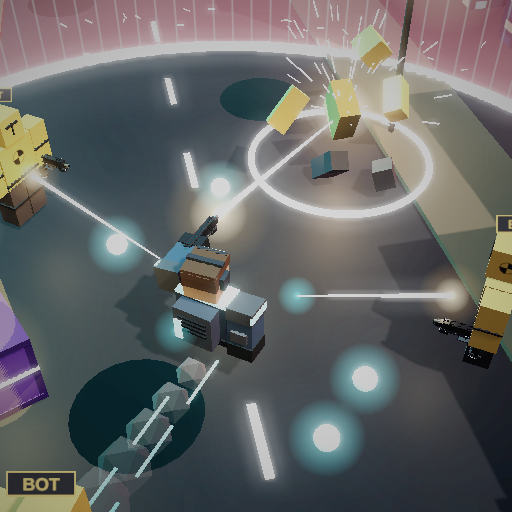
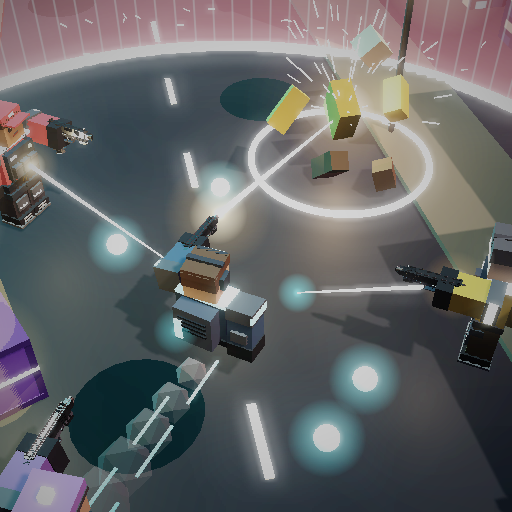
Store art: show other players instead of bots
Claude-Session: https://claude.ai/code/session_01EW7UVPxxQdamETQbLyci97

diff --git a/art/store/preview.html b/art/store/preview.html
@@ -1055,10 +1055,18 @@ body.shot #shot{display:block;width:100vw;height:100vh}
     box(head, 0.36, 0.07, 0.04, mat(0x6b2a22), 0.02, -0.28, front, 0, 0, 0.06);
   }
   // Hero: the default player look (navy tactical jacket, cyan headset, pads, backpack with vents).
-  function makeHero(pose) {
-    const root = new THREE.Group();
-    const jacket = mat(0x22344f), pants = mat(0x1d2738), rig = mat(0x141a23, { roughness: 0.85 }), skin = mat(0xd9a47c);
-    const boot = mat(0x101216, { roughness: 0.9 }), pad = mat(0x2c323c), cyanG = glow(P.cyan, 2.6), brass = mat(0xc9a24a, { metalness: 0.8, roughness: 0.3 });
+  // Other players: same body, their own outfits (no BOT tags; carter wants real players on the store art).
+  const RIVALS = [
+    { jacket: 0xb8323c, pants: 0x1a1a1f, skin: 0x8d5a3b, accent: P.coral, head: "cap", hat: 0xd8323c, pack: 0x5a1a20 },
+    { jacket: 0xc99a2e, pants: 0x3a2a1c, skin: 0xe8c09a, accent: P.gold, head: "helmet", hat: 0x2a2d33, pack: 0x5a4518 },
+    { jacket: 0x5a3aa0, pants: 0x3c3f48, skin: 0xc68a62, accent: 0xb26bff, head: "beanie", hat: 0x8a5cd8, pack: 0x2e1e55 },
+    { jacket: 0x55703f, pants: 0xa08a64, skin: 0x6b4430, accent: 0x9be15d, head: "cap", hat: 0x2e3a24, pack: 0x2e3a24 },
+  ];
+  function makeRival(i, pose) { return makeHero(pose || "aim", RIVALS[i % RIVALS.length]); }
+  function makeHero(pose, look) {
+    const root = new THREE.Group(), L = look || {};
+    const jacket = mat(L.jacket || 0x22344f), pants = mat(L.pants || 0x1d2738), rig = mat(0x141a23, { roughness: 0.85 }), skin = mat(L.skin || 0xd9a47c);
+    const boot = mat(0x101216, { roughness: 0.9 }), pad = mat(0x2c323c), cyanG = glow(L.accent || P.cyan, 2.6), brass = mat(0xc9a24a, { metalness: 0.8, roughness: 0.3 });
     // legs
     [-0.5, 0.5].forEach((x) => {
       const leg = new THREE.Group(); leg.position.set(x, 2, 0); root.add(leg);
@@ -1078,19 +1086,27 @@ body.shot #shot{display:block;width:100vw;height:100vh}
     box(torso, 2.02, 0.12, 1.02, cyanG, 0, 0.94, 0); // collar strip
     box(torso, 0.18, 2.0, 0.08, rig, -0.62, 0, 0.5); box(torso, 0.18, 2.0, 0.08, rig, 0.62, 0, 0.5);
     // backpack with vents and a power cell
-    box(torso, 1.5, 1.6, 0.6, mat(0x2a3446), 0, 0, -0.8);
+    box(torso, 1.5, 1.6, 0.6, mat(L.pack || 0x2a3446), 0, 0, -0.8);
     for (let i = 0; i < 4; i++) box(torso, 1.1, 0.08, 0.05, mat(0x0b0e13), 0, 0.45 - i * 0.2, -1.12);
     box(torso, 0.3, 0.9, 0.3, cyanG, 0.55, -0.15, -1.05);
-    halo(torso, P.cyan, 1.6, 0.55, -0.15, -1.3, 0.5);
+    halo(torso, L.accent || P.cyan, 1.6, 0.55, -0.15, -1.3, 0.5);
     // head
     const head = new THREE.Group(); head.position.y = 4.65; root.add(head);
     box(head, 1.2, 1.2, 1.2, skin, 0, 0, 0);
     face(head, 0.61);
+    if (!L.head) {
     box(head, 1.26, 0.38, 1.26, mat(0x3b2a20), 0, 0.5, -0.02); box(head, 1.26, 0.6, 0.3, mat(0x3b2a20), 0, 0.25, -0.5);
     box(head, 1.32, 0.12, 0.2, mat(0x1b2028), 0, 0.72, 0); // headset band
     [-0.68, 0.68].forEach((x) => { box(head, 0.18, 0.5, 0.5, mat(0x1b2028), x, 0.02, 0); box(head, 0.05, 0.2, 0.2, cyanG, x * 1.08, 0.02, 0); });
     box(head, 0.06, 0.06, 0.6, mat(0x1b2028), 0.66, -0.25, 0.35, 0.4); box(head, 0.12, 0.12, 0.12, mat(0x1b2028), 0.6, -0.4, 0.62);
     box(head, 1.1, 0.3, 0.14, mat(0x1b2028), 0, 0.52, 0.6); box(head, 0.42, 0.22, 0.1, cyanG, -0.25, 0.52, 0.68); box(head, 0.42, 0.22, 0.1, cyanG, 0.25, 0.52, 0.68);
+    } else {
+      const hat = mat(L.hat), ac = glow(L.accent, 2.4);
+      box(head, 1.26, 0.3, 1.26, mat(0x24180f), 0, 0.42, -0.04); box(head, 1.26, 0.5, 0.25, mat(0x24180f), 0, 0.2, -0.52);
+      if (L.head === "cap") { box(head, 1.3, 0.36, 1.3, hat, 0, 0.62, 0); box(head, 1.1, 0.08, 0.6, hat, 0, 0.46, 0.85); box(head, 0.3, 0.12, 0.05, ac, 0, 0.66, 0.66); }
+      else if (L.head === "helmet") { box(head, 1.4, 0.62, 1.4, hat, 0, 0.5, -0.02); box(head, 1.16, 0.26, 0.08, ac, 0, 0.12, 0.66); box(head, 0.2, 0.5, 1.42, mat(0x1a1c20), 0, 0.55, -0.02); }
+      else { box(head, 1.32, 0.48, 1.32, hat, 0, 0.56, 0); box(head, 1.36, 0.16, 1.36, mat(0x2a2a30), 0, 0.36, 0); box(head, 0.3, 0.3, 0.3, ac, 0, 0.9, 0); }
+    }
     // arms (shoulder pivots)
     const arms = [];
     [-1, 1].forEach((s) => {
@@ -1331,10 +1347,10 @@ body.shot #shot{display:block;width:100vw;height:100vh}
       s.castShadow = false;
     }
   }
-  function burst(scene, c, k) {
-    // a Crash Dummy blown into parts, with a shockwave ring and sparks
-    const y = mat(P.gold, { roughness: 0.45 }), dk = mat(0x2a2a2e);
-    [[1.2, 1.2, 1.2, y, 0.8, 2.6, -0.4], [2, 2, 1, y, -0.2, 0.4, 0.3], [0.95, 2, 0.95, y, -1.9, 0.9, 0.5], [0.95, 2, 0.95, y, 1.9, -0.2, -0.6], [0.95, 2, 0.95, dk, -0.6, -1.9, 0.8], [0.95, 2, 0.95, dk, 0.9, -2.1, 1.5]].forEach((p) => {
+  function burst(scene, c, k, look) {
+    // a knocked-out player blown into blocks, with a shockwave ring and sparks
+    const y = mat(look.jacket), dk = mat(look.pants);
+    [[1.2, 1.2, 1.2, mat(look.skin), 0.8, 2.6, -0.4], [2, 2, 1, y, -0.2, 0.4, 0.3], [0.95, 2, 0.95, y, -1.9, 0.9, 0.5], [0.95, 2, 0.95, y, 1.9, -0.2, -0.6], [0.95, 2, 0.95, dk, -0.6, -1.9, 0.8], [0.95, 2, 0.95, dk, 0.9, -2.1, 1.5]].forEach((p) => {
       box(scene, p[0], p[1], p[2], p[3], c.x + p[4] * 1.6 * k, Math.max(0.8, c.y + p[5] * 1.1 * k), c.z + p[6] * 1.6 * k, rand() * 3, rand() * 3, rand() * 3);
     });
     halo(scene, 0xffffff, 3 * k, c.x, c.y, c.z, 0.9); halo(scene, P.gold, 6 * k, c.x, c.y, c.z, 0.4); halo(scene, P.coral, 10 * k, c.x, c.y, c.z, 0.15);
@@ -1372,9 +1388,9 @@ body.shot #shot{display:block;width:100vw;height:100vh}
   const IDEAS = {
     C1: {
       name: "Showdown", star: true,
-      blurb: "Game view, closer: you slide and fire, a bot blows apart, the wall closes in.",
+      blurb: "Game view, closer: you slide and fire, a player gets knocked out, the wall closes in.",
       build(scene, mode, title) {
-        rng = 41;
+        rng = 41; let rivalN = 0;
         darkNight(scene);
         scene.add(makeCity({ trees: false, night: true }));
         zoneWall(scene, 21, 0, 0, 16, 0.55);
@@ -1386,10 +1402,10 @@ body.shot #shot{display:block;width:100vw;height:100vh}
         muzzle(scene, tip, 1.4);
         const blast = new THREE.Vector3(7.5, 3, -7);
         tracer(scene, tip, blast, 0xffd27a, 0.14);
-        burst(scene, blast, 1.0);
+        burst(scene, blast, 1.0, RIVALS[1]);
         [[-8, -6, 0.9, true], [9, 6, -2.2, true], [-6, 12, 2.6, false]].forEach((p) => {
-          const d = makeDummy(); d.position.set(p[0], 0.3, p[1]); d.rotation.y = p[2]; scene.add(d);
-          if (p[3]) { const f = new THREE.Vector3(p[0], 3.1, p[1]); const to = new THREE.Vector3(-1 + (rand() - 0.5) * 3, 3.2, 4 + (rand() - 0.5) * 3);
+          const d = makeRival(rivalN++); d.position.set(p[0], 0.3, p[1]); d.rotation.y = p[2]; scene.add(d);
+          if (p[3]) { const f = new THREE.Vector3(p[0], 3.7, p[1]); const to = new THREE.Vector3(-1 + (rand() - 0.5) * 3, 3.2, 4 + (rand() - 0.5) * 3);
             const dir = to.clone().sub(f).normalize(); const m = f.clone().addScaledVector(dir, 1.6); muzzle(scene, m, 0.8); tracer(scene, m, f.clone().lerp(to, 0.75), P.cyan, 0.1); }
         });
         const c1 = makeCrate(2); c1.position.set(-9, 0.3, 4); c1.rotation.y = 0.4; scene.add(c1); lootBeam(scene, -9, 4, P.gold);
@@ -1405,7 +1421,7 @@ body.shot #shot{display:block;width:100vw;height:100vh}
     },
     C2: {
       name: "Last Two",
-      blurb: "Sudden death: you vs the last bot, red wall almost shut, sparks everywhere.",
+      blurb: "Sudden death: you vs the last player, red wall almost shut, sparks everywhere.",
       build(scene, mode, title) {
         rng = 77;
         darkNight(scene, 0x2a0d1c);
@@ -1414,10 +1430,10 @@ body.shot #shot{display:block;width:100vw;height:100vh}
         sparksRing(scene, 11, 0, 0, 120);
         const redL = new THREE.PointLight(P.coral, 0.8, 30); redL.position.set(0, 10, 0); scene.add(redL);
         const hero = makeHero("aim"); hero.position.set(-4, 0.3, 2.5); hero.rotation.y = Math.PI / 2 + 0.35; scene.add(hero);
-        const d = makeDummy(); d.position.set(4.5, 0.3, -2); d.rotation.y = -Math.PI / 2 + 0.35; scene.add(d);
+        const d = makeRival(0); d.position.set(4.5, 0.3, -2); d.rotation.y = -Math.PI / 2 + 0.35; scene.add(d);
         const a = new THREE.Vector3(), b = new THREE.Vector3();
         hero.userData.gun.updateWorldMatrix(true, true); hero.userData.gun.localToWorld(a.set(2.6, 0.38, 0));
-        d.updateWorldMatrix(true, true); d.children.forEach((c) => {}); b.set(4.5 - 1.2, 2.6, -1.0);
+        d.userData.gun.updateWorldMatrix(true, true); d.userData.gun.localToWorld(b.set(2.6, 0.38, 0));
         muzzle(scene, a, 1.3); muzzle(scene, b, 1.0);
         tracer(scene, a, b.clone().lerp(a, 0.25), 0xffd27a, 0.13); tracer(scene, b, a.clone().lerp(b, 0.3), P.cyan, 0.11);
         const clash = a.clone().lerp(b, 0.5); halo(scene, 0xffffff, 2, clash.x, clash.y, clash.z, 0.8);
@@ -1434,9 +1450,9 @@ body.shot #shot{display:block;width:100vw;height:100vh}
     },
     C3: {
       name: "Loot Rush",
-      blurb: "Game view: gold crate bursts open, you dash for it, bots chase, wall behind.",
+      blurb: "Game view: gold crate bursts open, you dash for it, other players chase, wall behind.",
       build(scene, mode, title) {
-        rng = 19;
+        rng = 19; let rivalN = 0;
         darkNight(scene);
         scene.add(makeCity({ trees: false, night: true }));
         zoneWall(scene, 26, 0, 0, 16, 0.55);
@@ -1453,8 +1469,8 @@ body.shot #shot{display:block;width:100vw;height:100vh}
         const hero = makeHero("aim"); slidePose(hero); hero.position.set(-4, -0.4, 6); hero.rotation.y = Math.PI * 0.75; scene.add(hero);
         slideTrail(scene, -4, 6, Math.PI * 0.75);
         [[8, 8, -2.4], [10, -6, -1.2], [-9, -8, 0.8]].forEach((p) => {
-          const d = makeDummy(); d.position.set(p[0], 0.3, p[1]); d.rotation.y = p[2]; scene.add(d);
-          const f = new THREE.Vector3(p[0], 3.1, p[1]), to = new THREE.Vector3(-4, 3, 6), dir = to.clone().sub(f).normalize();
+          const d = makeRival(rivalN++); d.position.set(p[0], 0.3, p[1]); d.rotation.y = p[2]; scene.add(d);
+          const f = new THREE.Vector3(p[0], 3.7, p[1]), to = new THREE.Vector3(-4, 3, 6), dir = to.clone().sub(f).normalize();
           const m = f.clone().addScaledVector(dir, 1.6); muzzle(scene, m, 0.7); tracer(scene, m, f.clone().lerp(to, 0.6), P.cyan, 0.09);
         });
         orbs(scene, [[-1, 2], [-6, 0], [5, 9]]);
@@ -1478,8 +1494,8 @@ body.shot #shot{display:block;width:100vw;height:100vh}
         zoneWall(scene, 70, 0, -10, 26);
         const hero = makeHero("aim"); hero.position.set(0, 0.3, 30); hero.rotation.y = 0.6; hero.userData.head.rotation.y = -0.55; scene.add(hero);
         const fill = new THREE.PointLight(0xbfe6ff, 0.55, 30); fill.position.set(-6, 9, 40); scene.add(fill);
-        const d1 = makeDummy(); d1.position.set(7, 0.3, 12); d1.rotation.y = -0.5; scene.add(d1);
-        const d2 = makeDummy(); d2.position.set(-6, 0.3, 2); d2.rotation.y = 0.6; scene.add(d2);
+        const d1 = makeRival(0); d1.position.set(7, 0.3, 12); d1.rotation.y = -0.5; scene.add(d1);
+        const d2 = makeRival(2); d2.position.set(-6, 0.3, 2); d2.rotation.y = 0.6; scene.add(d2);
         const cr = makeCrate(2); cr.position.set(-7.5, 0.3, 19); cr.rotation.y = 0.4; scene.add(cr);
         halo(scene, P.cyan, 3.5, 1.4 + 0, 0, 0, 0); // placeholder (unused)
         const cam = new THREE.PerspectiveCamera(mode === "icon" ? 27 : 30, mode === "icon" ? 1 : 16 / 9, 0.1, 2000);
@@ -1517,7 +1533,7 @@ body.shot #shot{display:block;width:100vw;height:100vh}
         const trail = new THREE.Mesh(new THREE.CylinderGeometry(0.04, 0.04, 30, 8), glow(P.cyan, 2.5)); trail.rotation.z = Math.PI / 2; trail.position.set(18.5, 0.38, 0); gun.add(trail);
         const shell = cyl(gun, 0.12, 0.38, mat(0xc9a24a, { metalness: 0.9, roughness: 0.25 }), 0.2, 1.3, 0.9, 0.8, 0, 0.6, 12);
         halo(scene, P.cyan, 2.2, 0, 0, 0, 0);
-        const d = makeDummy(); d.position.set(10, -6, -6); d.rotation.y = -0.8; d.scale.setScalar(1.6); scene.add(d);
+        const d = makeRival(0); d.position.set(10, -6, -6); d.rotation.y = -0.8; d.scale.setScalar(1.6); scene.add(d);
         const cam = new THREE.PerspectiveCamera(mode === "icon" ? 34 : 34, mode === "icon" ? 1 : 16 / 9, 0.1, 2000);
         if (mode === "icon") { cam.position.set(-1.0, 6.0, 31); cam.lookAt(1.6, 4.0, 18); }
         else {
@@ -1529,15 +1545,15 @@ body.shot #shot{display:block;width:100vw;height:100vh}
     },
     C: {
       name: "Zone Closing",
-      blurb: "Game camera: you vs 3 Crash Dummies, red wall closing in.",
+      blurb: "Game camera: you vs 3 players, red wall closing in.",
       build(scene, mode, title) {
-        rng = 5;
+        rng = 5; let rivalN = 0;
         sky(scene, 0x0d1830, 0x5a2a5e, 0xff9a52); scene.fog = new THREE.Fog(0x3a2550, 80, 300);
         lights(scene, { keyI: 1.3, kx: 25, ky: 50, kz: 20, hemi: 0.7 });
         scene.add(makeCity({ trees: true }));
         zoneWall(scene, 24, 0, 0, 14);
         const hero = makeHero("aim"); hero.position.set(0, 0.3, 4); hero.rotation.y = Math.PI + 0.5; scene.add(hero);
-        [[-9, -9, 0.6], [8, -11, -0.5], [10, 9, -2.4]].forEach((p) => { const d = makeDummy(); d.position.set(p[0], 0.3, p[1]); d.rotation.y = p[2]; scene.add(d); });
+        [[-9, -9, 0.6], [8, -11, -0.5], [10, 9, -2.4]].forEach((p) => { const d = makeRival(rivalN++); d.position.set(p[0], 0.3, p[1]); d.rotation.y = p[2]; scene.add(d); });
         const c1 = makeCrate(1); c1.position.set(-8, 0.3, 10); scene.add(c1);
         const c2 = makeCrate(0); c2.position.set(3, 0.3, -12); c2.rotation.y = 0.5; scene.add(c2);
         // shots flying both ways

diff --git a/plans/STORE-PAGE.md b/plans/STORE-PAGE.md
@@ -7,19 +7,19 @@ The game name is still the placeholder `Circuit District` (`Config.Game.Name`).
 
 | Idea | Icon (512x512) | Thumbnail (1920x1080) | What it shows |
 | --- | --- | --- | --- |
-| C1 Showdown ⭐ | `icon-C1.png` | `thumb-C1.png` | Game view, closer: you slide and fire, a bot blows apart, wall closing |
-| C2 Last Two | `icon-C2.png` | `thumb-C2.png` | Sudden death: you vs the last bot, red wall almost shut, sparks |
-| C3 Loot Rush | `icon-C3.png` | `thumb-C3.png` | Gold crate bursts open, you dash for it, bots chase |
-| A Hero Shot | `icon-A.png` | `thumb-A.png` | Your fighter aiming the A++ pistol, Neon Night street, Crash Dummy bot behind |
-| B Gun Glow | `icon-B.png` | `thumb-B.png` | The A++ pistol firing up close, brass flying, a bot down the street |
-| C Zone Closing | `icon-C.png` | `thumb-C.png` | The game camera: you vs 3 Crash Dummies, red zone wall, crates, XP orbs |
+| C1 Showdown ⭐ | `icon-C1.png` | `thumb-C1.png` | Game view, closer: you slide and fire, a player gets knocked out, wall closing |
+| C2 Last Two | `icon-C2.png` | `thumb-C2.png` | Sudden death: you vs the last player, red wall almost shut, sparks |
+| C3 Loot Rush | `icon-C3.png` | `thumb-C3.png` | Gold crate bursts open, you dash for it, other players chase |
+| A Hero Shot | `icon-A.png` | `thumb-A.png` | Your fighter aiming the A++ pistol, Neon Night street, another player behind |
+| B Gun Glow | `icon-B.png` | `thumb-B.png` | The A++ pistol firing up close, brass flying, another player down the street |
+| C Zone Closing | `icon-C.png` | `thumb-C.png` | The game camera: you vs 3 players, red zone wall, crates, XP orbs |
 
 - carter liked C but wanted it cooler, so C1-C3 are the cooler takes. Pick ONE icon.
 - Use 3 or more thumbnails: the picked one first, the others after it.
 - Thumbnails say "Neon Lockdown". If you keep another name, open `art/store/preview.html`,
   tap the name, and ask a thread to re-render the PNGs.
 - All art is built from the game's own looks (gun parts copied from `src/client/Combat/GunModels.luau`,
-  Crash Dummy colors from `src/server/Bots/BotTuning.luau`, palette from `Config.Palette`).
+  palette from `Config.Palette`).
 
 ## Name ideas
 
@@ -41,7 +41,7 @@ Every match is a free-for-all. Run, slide and shoot your way through the streets
 - Smash purple crates for better loot
 - Pick up XP orbs and choose a power-up card when you level up
 - Slide under fire to dodge shots
-- Not enough players? Crash Dummy bots fill every match, so you never wait
+- Matches fill up fast, so you never wait long
 - Earn Volts and unlock new stuff
 
 Made for phones first. Works on PC and controller too.
@@ -55,7 +55,7 @@ that needs the coins PR (#17) merged first. Remove that line if it is not in yet
 ## Genre and search words
 
 - Genre: **Shooter**. If Roblox shows a sub-genre list, pick the closest one (Battle Royale or Arena).
-- Roblox has no free tags. Search words already sit in the description: free-for-all, zone, loot, slide, bots, neon city.
+- Roblox has no free tags. Search words already sit in the description: free-for-all, zone, loot, slide, neon city.
 
 ## Upload steps (carter does these; no settings were changed by Claude)
 

diff --git a/plans/handoffs/30-store-page.md b/plans/handoffs/30-store-page.md
@@ -2,7 +2,7 @@
 
 - What: icon + thumbnail ideas C1 Showdown ⭐, C2 Last Two, C3 Loot Rush (cooler C), plus A, B, C, 3 name ideas, store description, upload steps.
 - Files: `art/store/icon-*.png` (512x512), `art/store/thumb-*.png` (1920x1080), `art/store/preview.html`, `plans/STORE-PAGE.md`.
-- Art is real 3D (three.js r128) built from the game's looks: A++ gun parts list, Crash Dummy colors, Config.Palette, Neon Night city.
+- Art is real 3D (three.js r128) from the game looks: A++ gun parts list, Config.Palette, Neon Night city. Opponents are other players in their own outfits (carter: no bots on store art).
 - Re-render: open preview.html locally with `#shot=A&mode=thumb&w=1920&h=1080&title=Neon%20Lockdown`, screenshot `#shot` (Playwright, swiftshader).
 - No game code changed. Name in the game is still `Config.Game.Name` = "Circuit District".
 - Live preview for carter: https://claude.ai/artifact/XARRj36mR1ef9tjF2ZjKHH
